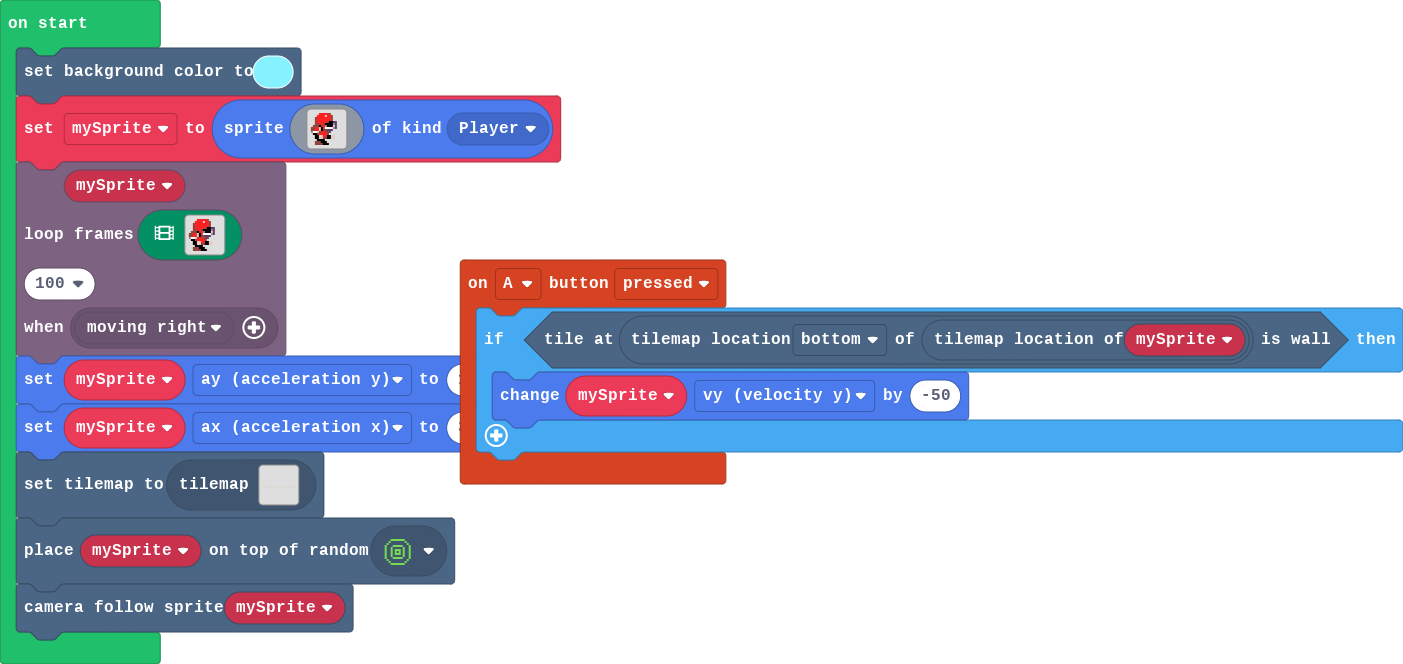
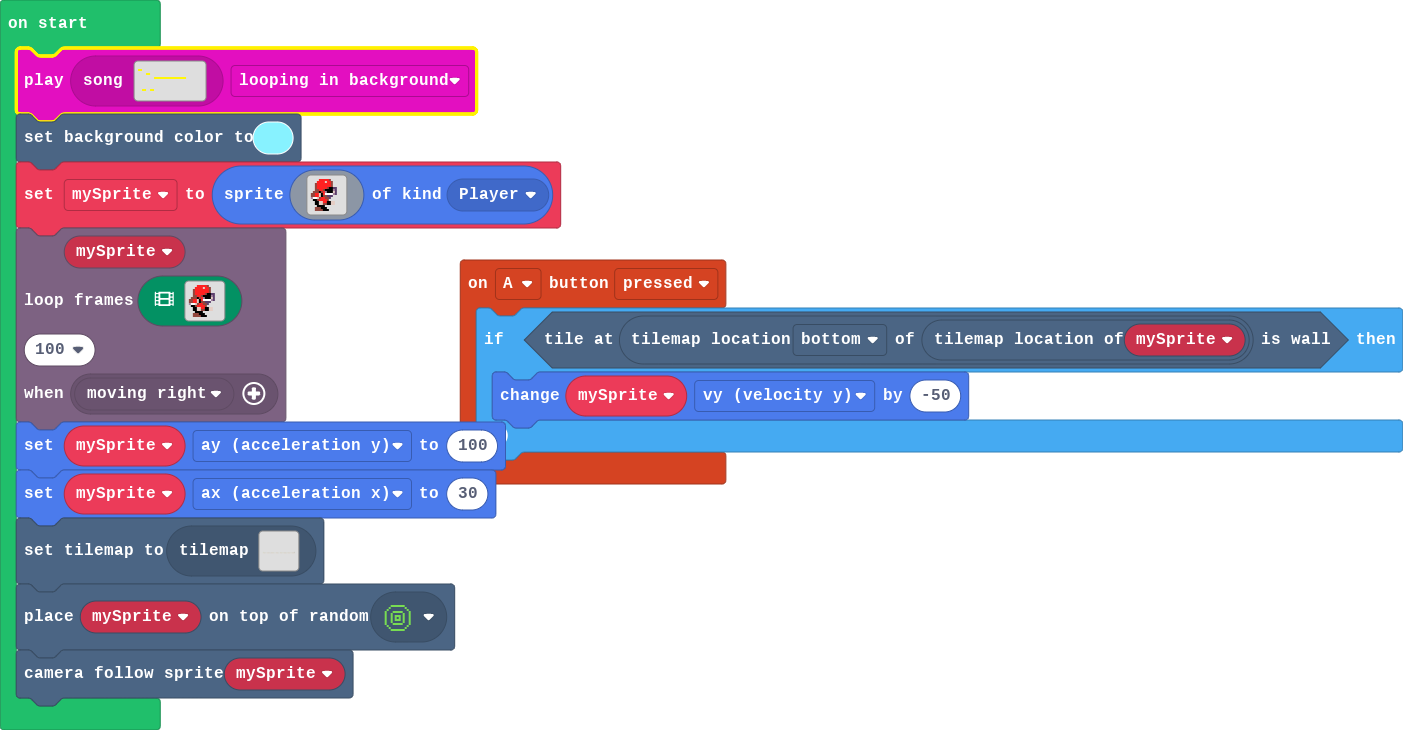
Update pxt.json, main.blocks, main.ts, images.g.jres, images.g.ts

diff --git a/images.g.ts b/images.g.ts
@@ -1,0 +1,114 @@
+// Auto-generated code. Do not edit.
+namespace myImages {
+
+    helpers._registerFactory("image", function(name: string) {
+        switch(helpers.stringTrim(name)) {
+            case "image1":
+            case "Runner":return img`
+. . . . 2 2 2 2 2 e . . . . . . 
+. . . 2 2 2 2 d 2 2 e . . . . . 
+. . e 2 2 2 2 2 2 2 e . . . . . 
+. . e 2 2 2 2 2 2 2 e . . . . . 
+. . e 2 2 2 2 2 e f f c c . . . 
+. . e e 2 2 e f f f f b c . . . 
+. e e e f e 2 b f f f d c . . . 
+e e 2 2 d f 2 1 1 1 1 b c . . . 
+e e 2 2 d f e e c c c . . . . . 
+b 1 1 d e 2 2 e e c . . . . . . 
+. f f e 2 2 2 2 e . . . . . . . 
+. . f f d d 2 2 f f d d . . . . 
+. . f f d d e e f f d d . . . . 
+. . . f f f f . . . . . . . . . 
+. . e e e f f f . . . . . . . . 
+. . e e e e f f f . . . . . . . 
+`;
+        }
+        return null;
+    })
+
+    helpers._registerFactory("animation", function(name: string) {
+        switch(helpers.stringTrim(name)) {
+            case "Running":
+            case "anim1":return [img`
+. . . . 2 2 2 2 2 e . . . . . . 
+. . . 2 2 2 2 d 2 2 e . . . . . 
+. . e 2 2 2 2 2 2 2 e . . . . . 
+. . e 2 2 2 2 2 2 2 e . . . . . 
+. . e 2 2 2 2 2 e f f c c . . . 
+. . e e 2 2 e f f f f b c . . . 
+. e e e f e 2 b f f f d c . . . 
+e e 2 2 d f 2 1 1 1 1 b c . . . 
+e e 2 2 d f e e c c c . . . . . 
+b 1 1 d e 2 2 e e c . . . . . . 
+. f f e 2 2 2 2 e . . . . . . . 
+. . f f d d 2 2 f f d d . . . . 
+. . f f d d e e f f d d . . . . 
+. . . f f f f . . . . . . . . . 
+. . e e e f f f . . . . . . . . 
+. . e e e e f f f . . . . . . . 
+`, img`
+. . . . . . . . . . . . . . . . 
+. . . . . . 2 2 2 2 2 e . . . . 
+. . . . . 2 2 2 2 d 2 2 e . . . 
+. . . . e 2 2 2 2 2 2 2 e . . . 
+. . . . e 2 2 2 2 2 2 2 e . . . 
+. . . . e 2 2 2 2 2 e f f c c . 
+. . . . e e 2 2 e f f f f b c . 
+. . . e e e f e 2 b f f f d c . 
+. . e e 2 2 d f 2 1 1 1 1 b c . 
+. . e e 2 2 d f e e c c c . . . 
+. . b 1 1 d e 2 e e c . . . . . 
+. . f f f f d d f . . . . . . . 
+f f f f f f d d . . . . . . . . 
+f f f . f f f e . . . . . . . . 
+f f . . . . e e e . . . . . . . 
+. . . . . . e e e e . . . . . . 
+`, img`
+. . . . . . . . . . . . . . . . 
+. . . . . . 2 2 2 2 2 e . . . . 
+. . . . . 2 2 2 2 d 2 2 e . . . 
+. . . . e 2 2 2 2 2 2 2 e . . . 
+. . . . e 2 2 2 2 2 2 2 e . . . 
+. . . . e 2 2 2 2 2 e f f c c . 
+. . . . e e 2 2 e f f f f b c . 
+. . e e e f e 2 2 b f f f d c . 
+. e e 2 2 d f e 2 1 1 1 1 b c . 
+. e e 2 2 d f e e e c c c . . . 
+. b 1 1 e e 2 2 e e c . . . . . 
+. . f d d 2 2 2 f f f d d . . . 
+e e f d d e e e . f f d d . . . 
+e e e f f f f f . . . . . . . . 
+e e . . . . f f f . . . . . . . 
+. . . . . . f f f f . . . . . . 
+`, img`
+. . . . . . . . . . . . . . . . 
+. . . . . . . 2 2 2 2 2 e . . . 
+. . . . . . 2 2 2 2 d 2 2 e . . 
+. . . . . e 2 2 2 2 2 2 2 e . . 
+. . . . . e 2 2 2 2 2 2 2 e . . 
+. . . . . e 2 2 2 2 2 e f f c c 
+. . . . . e e 2 2 e f f f f b c 
+. . . e e e f e 2 2 b f f f d c 
+. . e e 2 2 d f e 2 1 1 1 1 b c 
+. . e e 2 2 d f e e e c c c . . 
+. . b 1 1 d e 2 2 e e c . . . . 
+. . . f f f d d 2 2 f d d . . . 
+. . . . f f d d e e f d d . . . 
+. . . . . f f f f f . . . . . . 
+. . . . e e e f f . . . . . . . 
+. . . . e e e e f f . . . . . . 
+`];
+        }
+        return null;
+    })
+
+    helpers._registerFactory("song", function(name: string) {
+        switch(helpers.stringTrim(name)) {
+            case "song1":
[1 lines of base64/hex data omitted]
+        }
+        return null;
+    })
+
+}
+// Auto-generated code. Do not edit.

diff --git a/main.ts b/main.ts
@@ -4,96 +4,12 @@ controller.A.onEvent(ControllerButtonEvent.Pressed, function () {
     }
 })
 let mySprite: Sprite = null
+music.play(music.createSong(assets.song`BGM`), music.PlaybackMode.LoopingInBackground)
 scene.setBackgroundColor(9)
-mySprite = sprites.create(img`
-    . . . . 2 2 2 2 2 e . . . . . . 
-    . . . 2 2 2 2 d 2 2 e . . . . . 
-    . . e 2 2 2 2 2 2 2 e . . . . . 
-    . . e 2 2 2 2 2 2 2 e . . . . . 
-    . . e 2 2 2 2 2 e f f c c . . . 
-    . . e e 2 2 e f f f f b c . . . 
-    . e e e f e 2 b f f f d c . . . 
-    e e 2 2 d f 2 1 1 1 1 b c . . . 
-    e e 2 2 d f e e c c c . . . . . 
-    b 1 1 d e 2 2 e e c . . . . . . 
-    . f f e 2 2 2 2 e . . . . . . . 
-    . . f f d d 2 2 f f d d . . . . 
-    . . f f d d e e f f d d . . . . 
-    . . . f f f f . . . . . . . . . 
-    . . e e e f f f . . . . . . . . 
-    . . e e e e f f f . . . . . . . 
-    `, SpriteKind.Player)
+mySprite = sprites.create(assets.image`Runner`, SpriteKind.Player)
 characterAnimations.loopFrames(
 mySprite,
-[img`
-    . . . . 2 2 2 2 2 e . . . . . . 
-    . . . 2 2 2 2 d 2 2 e . . . . . 
-    . . e 2 2 2 2 2 2 2 e . . . . . 
-    . . e 2 2 2 2 2 2 2 e . . . . . 
-    . . e 2 2 2 2 2 e f f c c . . . 
-    . . e e 2 2 e f f f f b c . . . 
-    . e e e f e 2 b f f f d c . . . 
-    e e 2 2 d f 2 1 1 1 1 b c . . . 
-    e e 2 2 d f e e c c c . . . . . 
-    b 1 1 d e 2 2 e e c . . . . . . 
-    . f f e 2 2 2 2 e . . . . . . . 
-    . . f f d d 2 2 f f d d . . . . 
-    . . f f d d e e f f d d . . . . 
-    . . . f f f f . . . . . . . . . 
-    . . e e e f f f . . . . . . . . 
-    . . e e e e f f f . . . . . . . 
-    `,img`
-    . . . . . . . . . . . . . . . . 
-    . . . . . . 2 2 2 2 2 e . . . . 
-    . . . . . 2 2 2 2 d 2 2 e . . . 
-    . . . . e 2 2 2 2 2 2 2 e . . . 
-    . . . . e 2 2 2 2 2 2 2 e . . . 
-    . . . . e 2 2 2 2 2 e f f c c . 
-    . . . . e e 2 2 e f f f f b c . 
-    . . . e e e f e 2 b f f f d c . 
-    . . e e 2 2 d f 2 1 1 1 1 b c . 
-    . . e e 2 2 d f e e c c c . . . 
-    . . b 1 1 d e 2 e e c . . . . . 
-    . . f f f f d d f . . . . . . . 
-    f f f f f f d d . . . . . . . . 
-    f f f . f f f e . . . . . . . . 
-    f f . . . . e e e . . . . . . . 
-    . . . . . . e e e e . . . . . . 
-    `,img`
-    . . . . . . . . . . . . . . . . 
-    . . . . . . 2 2 2 2 2 e . . . . 
-    . . . . . 2 2 2 2 d 2 2 e . . . 
-    . . . . e 2 2 2 2 2 2 2 e . . . 
-    . . . . e 2 2 2 2 2 2 2 e . . . 
-    . . . . e 2 2 2 2 2 e f f c c . 
-    . . . . e e 2 2 e f f f f b c . 
-    . . e e e f e 2 2 b f f f d c . 
-    . e e 2 2 d f e 2 1 1 1 1 b c . 
-    . e e 2 2 d f e e e c c c . . . 
-    . b 1 1 e e 2 2 e e c . . . . . 
-    . . f d d 2 2 2 f f f d d . . . 
-    e e f d d e e e . f f d d . . . 
-    e e e f f f f f . . . . . . . . 
-    e e . . . . f f f . . . . . . . 
-    . . . . . . f f f f . . . . . . 
-    `,img`
-    . . . . . . . . . . . . . . . . 
-    . . . . . . . 2 2 2 2 2 e . . . 
-    . . . . . . 2 2 2 2 d 2 2 e . . 
-    . . . . . e 2 2 2 2 2 2 2 e . . 
-    . . . . . e 2 2 2 2 2 2 2 e . . 
-    . . . . . e 2 2 2 2 2 e f f c c 
-    . . . . . e e 2 2 e f f f f b c 
-    . . . e e e f e 2 2 b f f f d c 
-    . . e e 2 2 d f e 2 1 1 1 1 b c 
-    . . e e 2 2 d f e e e c c c . . 
-    . . b 1 1 d e 2 2 e e c . . . . 
-    . . . f f f d d 2 2 f d d . . . 
-    . . . . f f d d e e f d d . . . 
-    . . . . . f f f f f . . . . . . 
-    . . . . e e e f f . . . . . . . 
-    . . . . e e e e f f . . . . . . 
-    `],
+assets.animation`Running`,
 100,
 characterAnimations.rule(Predicate.MovingRight)
 )
